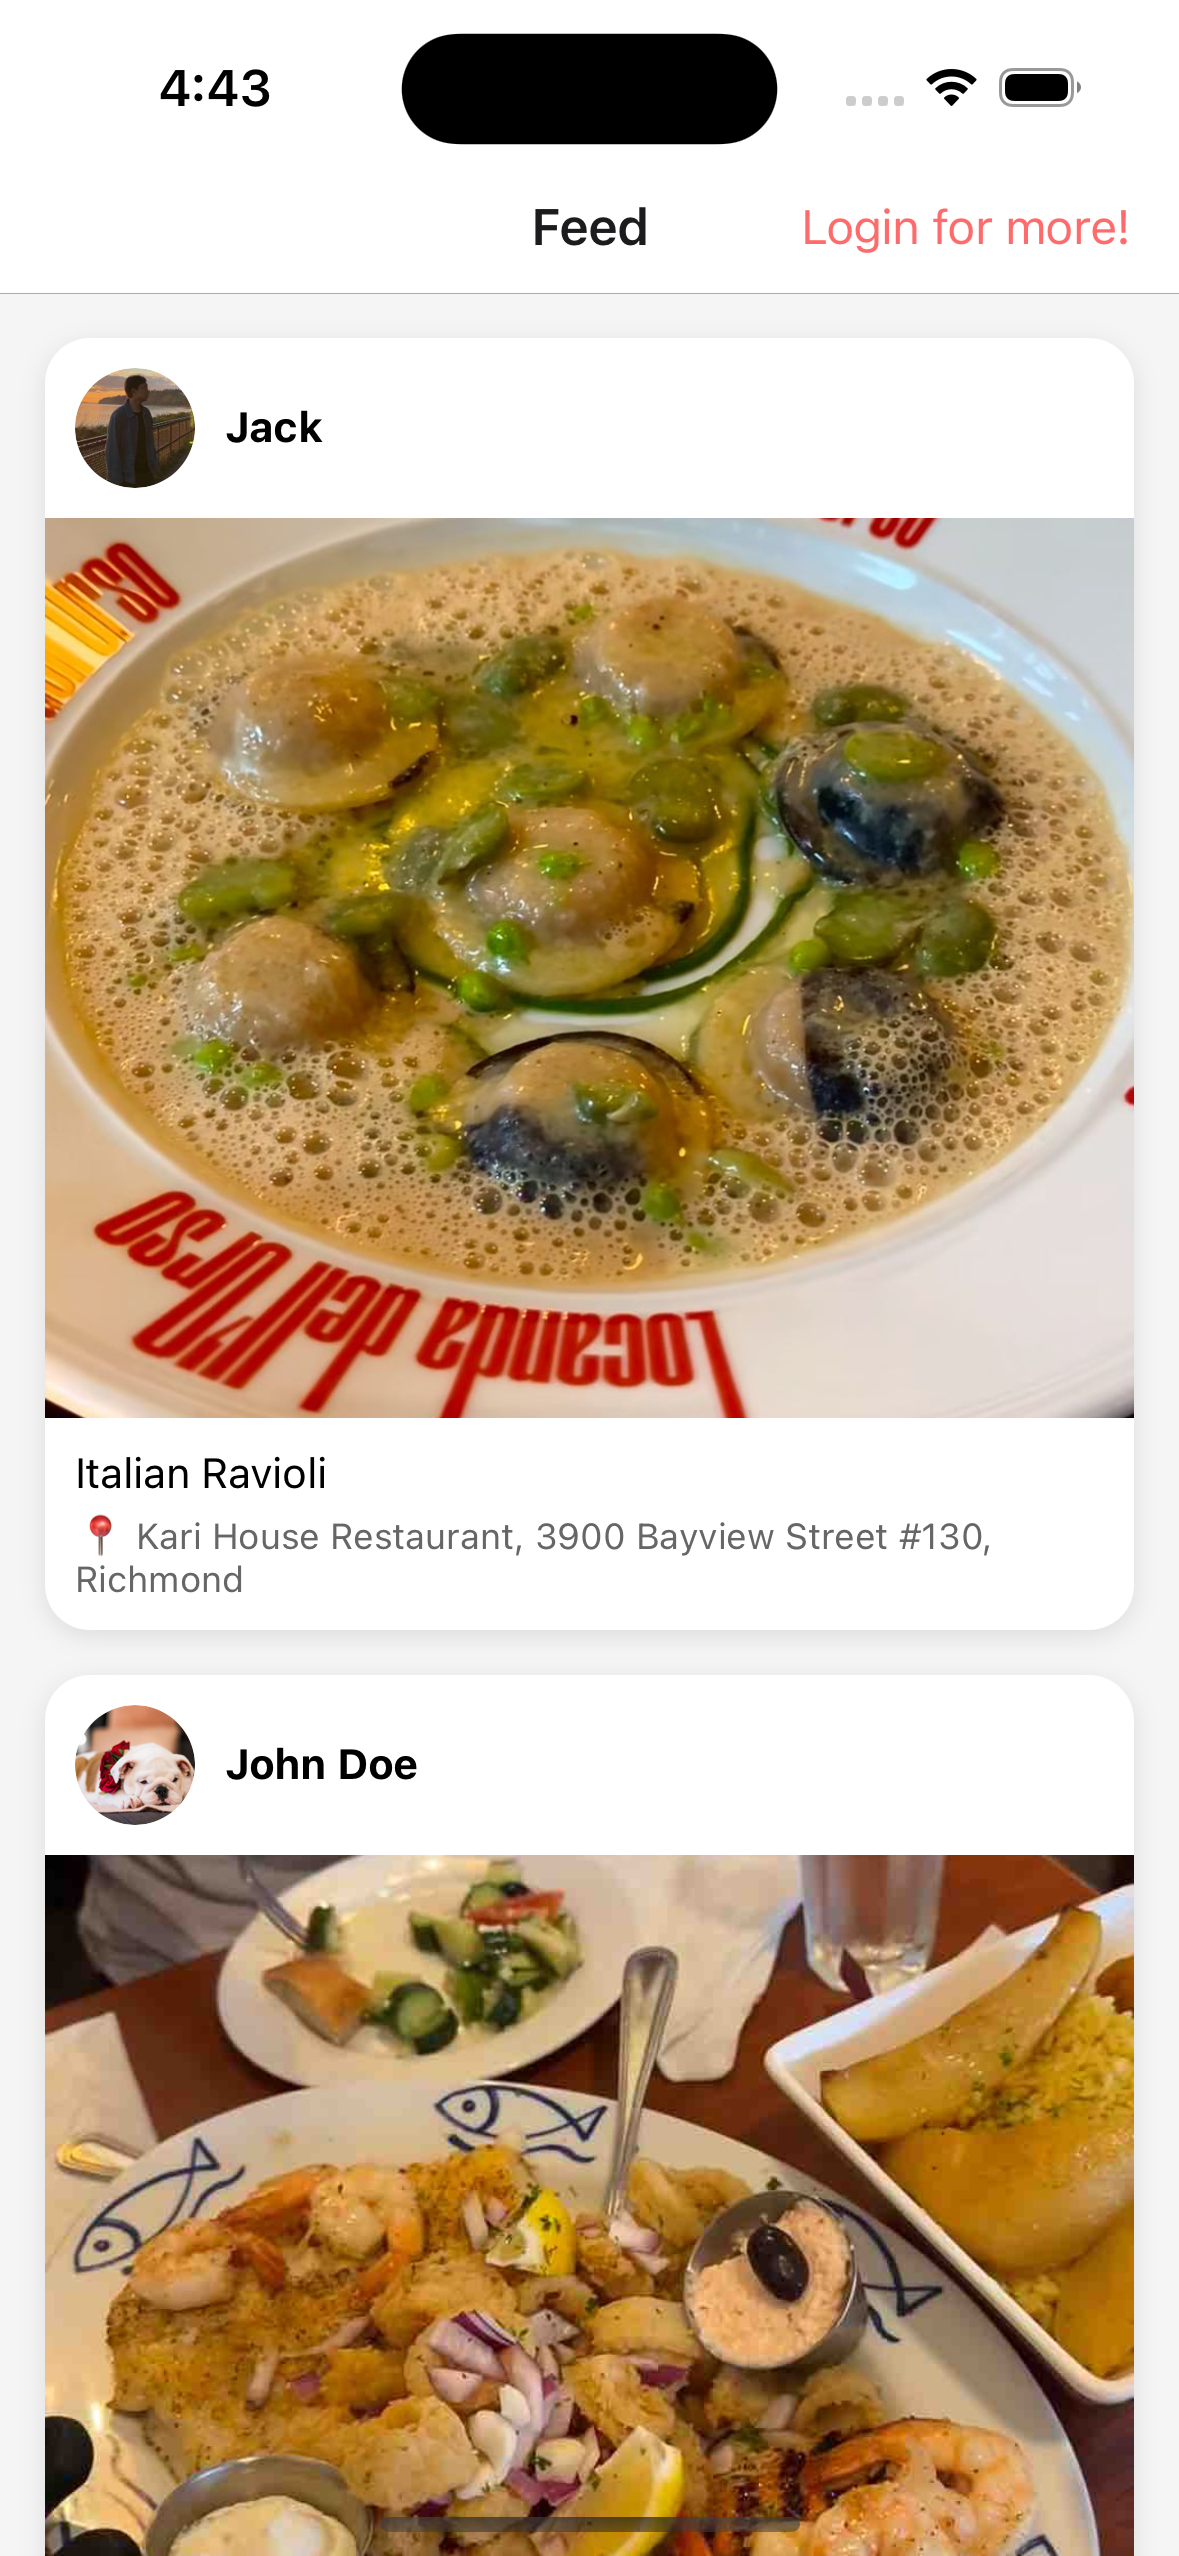
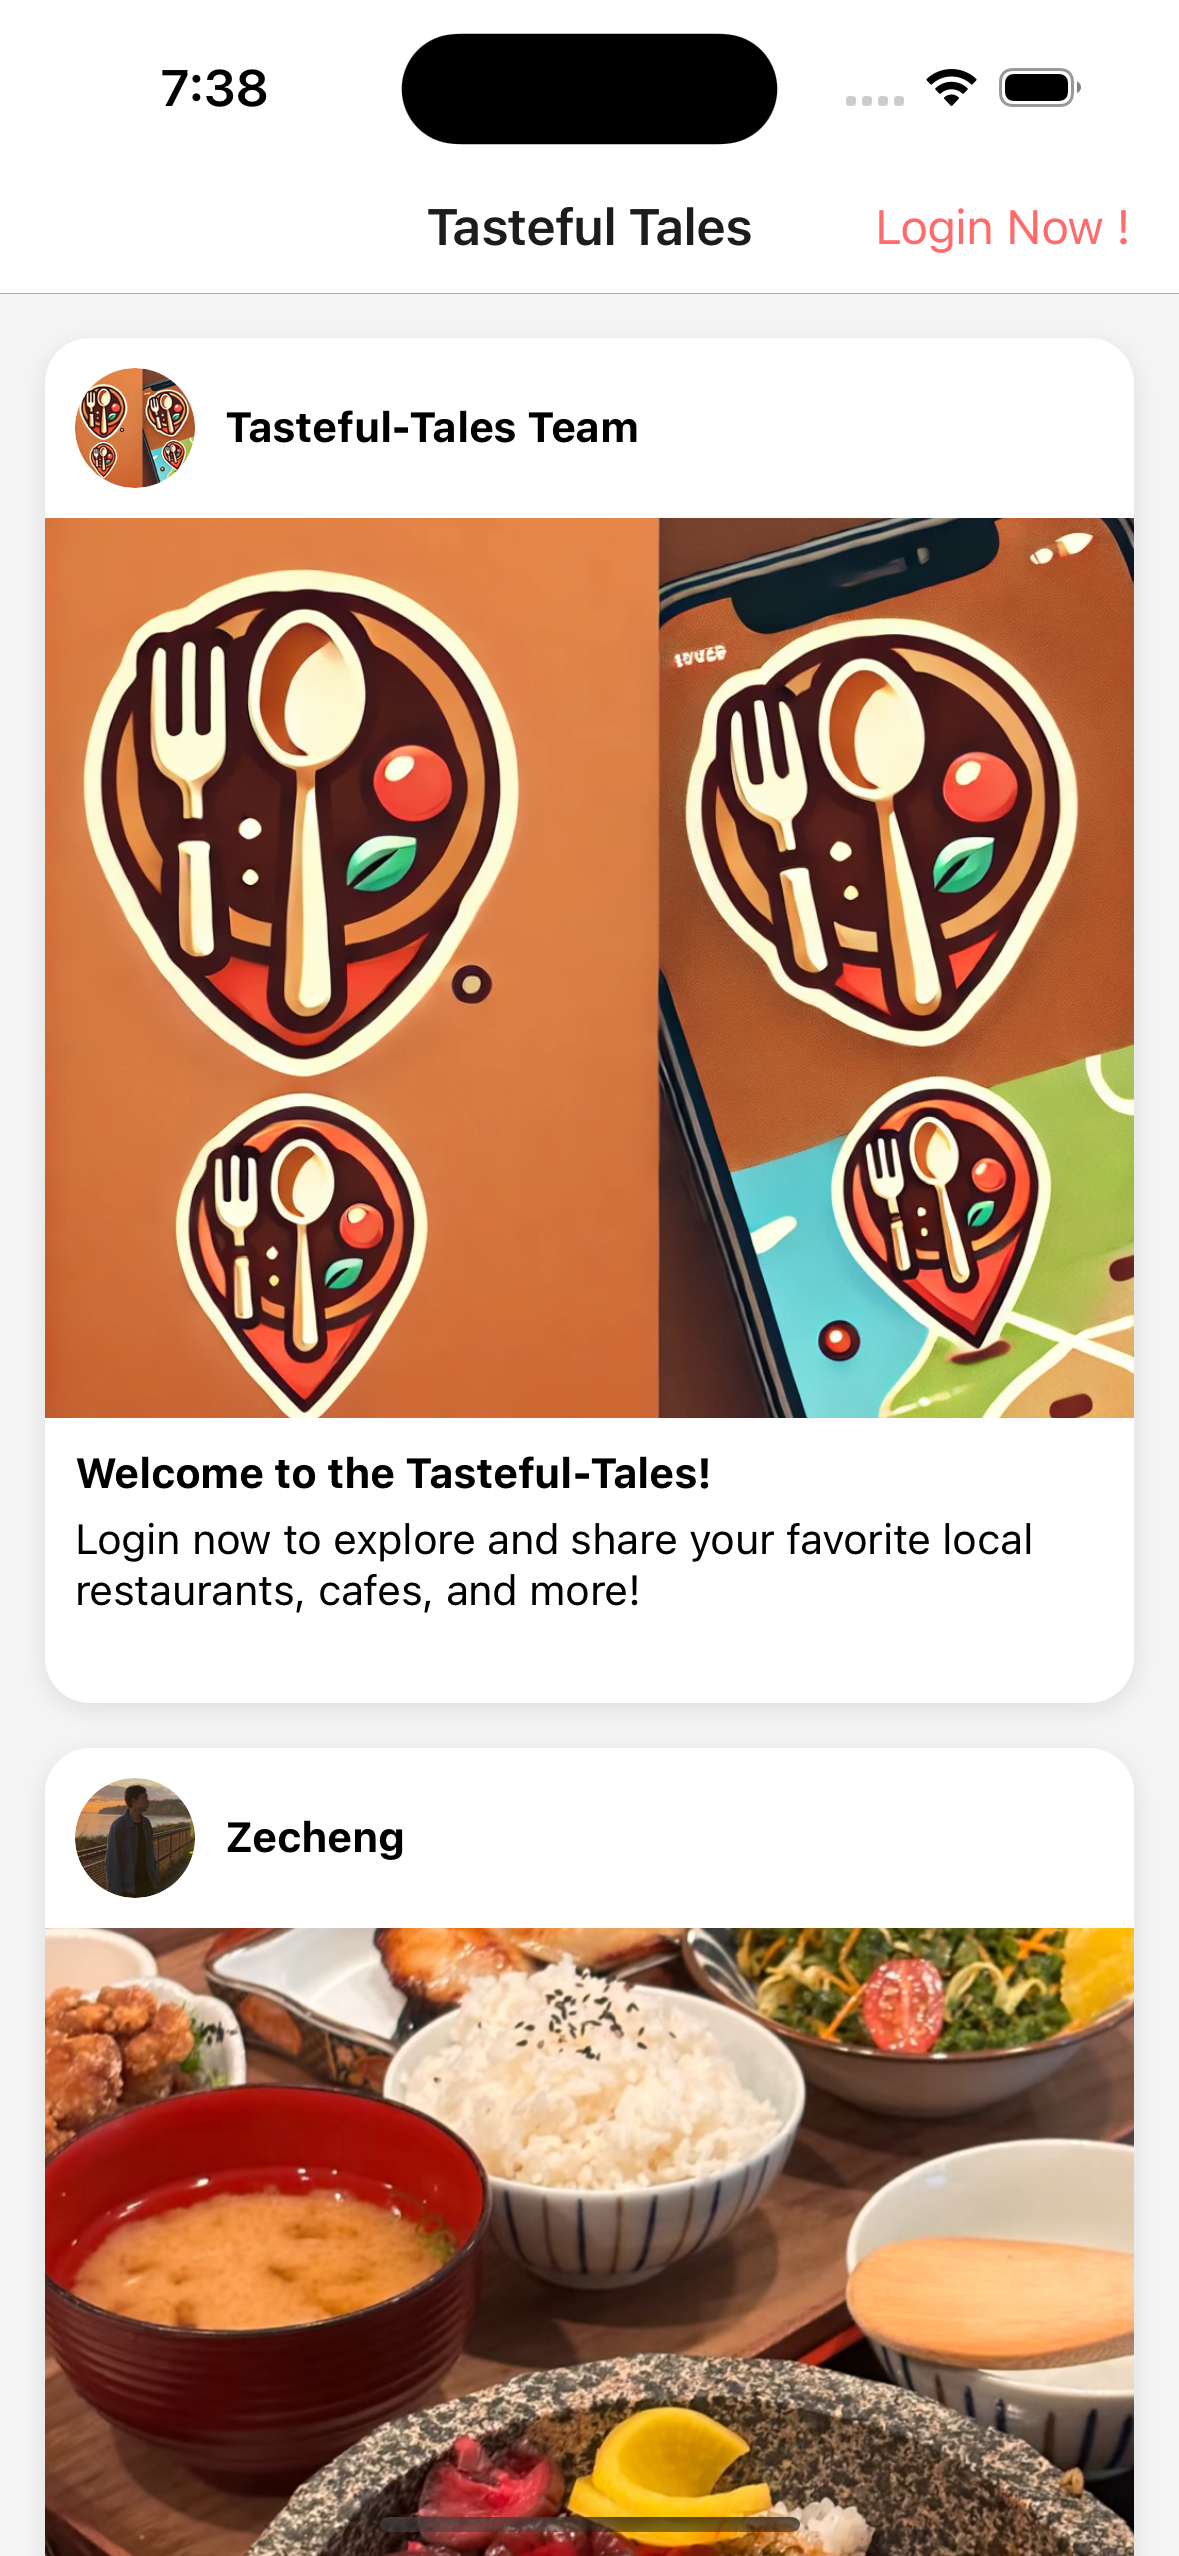
updated readme and fixed some typo inside App

diff --git a/src/screens/FeedScreen.js b/src/screens/FeedScreen.js
@@ -116,12 +116,12 @@ const FeedScreen = ({ navigation }) => {
 
   const welcomePost = {
     postId: 'welcome',
-    title: 'Welcome to the Testful-Tales!',
+    title: 'Welcome to the Tasteful-Tales!',
     description:'Login now to explore and share your favorite local restaurants, cafes, and more!',
     image:  Image.resolveAssetSource(require('../../assets/icon.png')).uri,
     createdDate: new Date(),
     userImage: Image.resolveAssetSource(require('../../assets/icon.png')).uri,
-    userName: 'Testful-Tales Team',
+    userName: 'Tasteful-Tales Team',
   }
 
 

diff --git a/src/navigation/AppNavigator.js b/src/navigation/AppNavigator.js
@@ -28,7 +28,7 @@ const AuthStack = () => (
       name="PublicFeed" 
       component={FeedScreen}
       options={({ navigation }) => ({
-        title: 'Tastful Tales',
+        title: 'Tasteful Tales',
         headerRight: () => (
           <TouchableOpacity onPress={() => navigation.navigate('Login')}>
             <Text style={{ color: '#FF6B6B', fontSize: 16 }}>Login Now !</Text>

diff --git a/README.md b/README.md
@@ -70,12 +70,14 @@ Key Features:
      - Upload functionality
 
 4. **Authentication** ✅
-   - Planned for next iteration
-   - Currently using dummy user data
+    - Firebase Authentication integrated
+    - Access control
+    - Login and signup interface
+    - Password reset through Email
 
-5. **Notifications** ❌
-   - Planned for next iteration
-   - Basic UI elements in place
+5. **Notifications** ✅
+   - Event reminder set automatically
+   - Notify user when event approches
 
 ### Implementation Progress
 
@@ -90,10 +92,12 @@ Key Features:
 - Feed posts search and display
 - Signup and Login interface
 - User Authentication
-
-🔄 In Progress:
 - Notification system
 - Camera/Gallery functionality
+
+🔄 In Progress:
+- None
+
 
 ### Team Member Contributions
 
